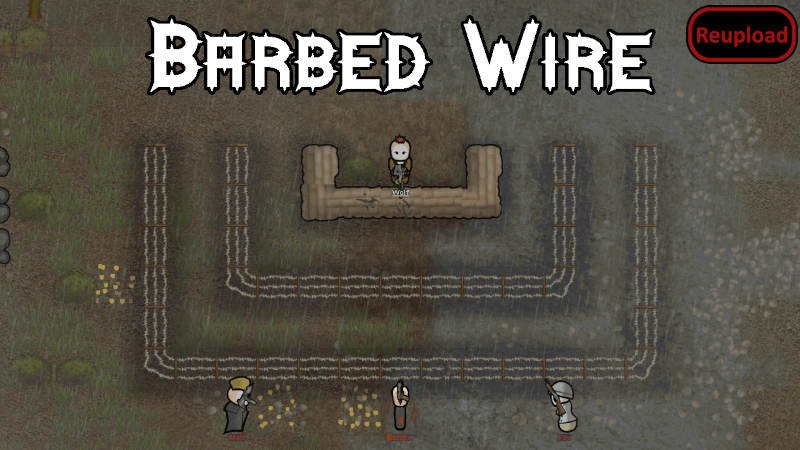
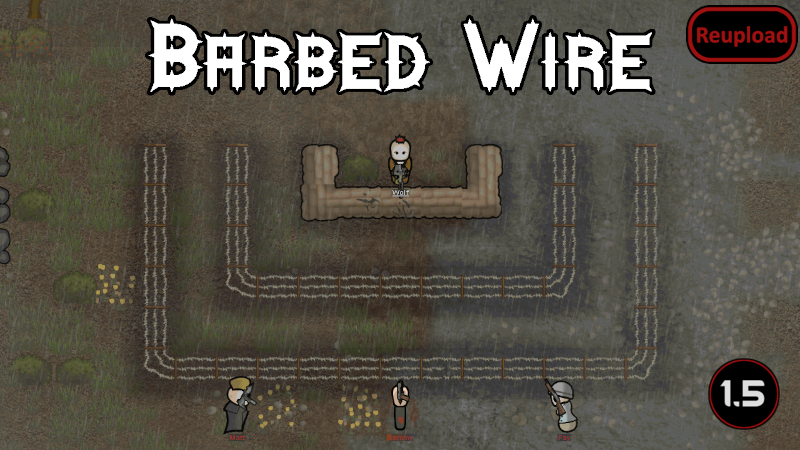
Mod updated for 1.5 and passed autotests

Changed region(s): [[0.875, 0.7778, 1.0, 0.9644]]

diff --git a/README.md b/README.md
@@ -26,11 +26,13 @@ Adds barbed wire, a simple defensive structure that slows movement and provides 
 
 -  See if the the error persists if you just have this mod and its requirements active.
 -  If not, try adding your other mods until it happens again.
--  Post your error-log using https://steamcommunity.com/workshop/filedetails/?id=818773962]HugsLib and command Ctrl+F12
+-  Post your error-log using https://steamcommunity.com/workshop/filedetails/?id=818773962]HugsLib or the standalone https://steamcommunity.com/sharedfiles/filedetails/?id=2873415404]Uploader and command Ctrl+F12
 -  For best support, please use the Discord-channel for error-reporting.
 -  Do not report errors by making a discussion-thread, I get no notification of that.
 -  If you have the solution for a problem, please post it to the GitHub repository.
+-  Use https://github.com/RimSort/RimSort/releases/latest]RimSort to sort your mods
 
 
 
+https://steamcommunity.com/sharedfiles/filedetails/changelog/2209097136]![Image](https://img.shields.io/github/v/release/emipa606/O21BarbedWire?label=latest%20version&style=plastic&color=9f1111&labelColor=black)
 
